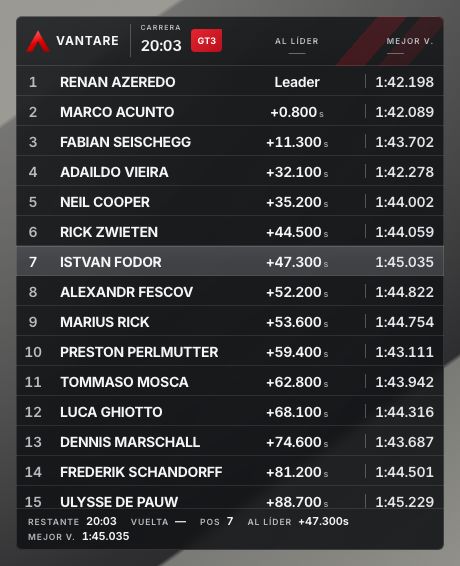
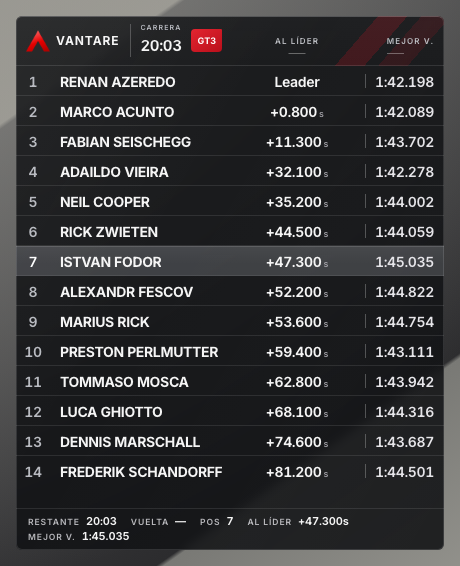
fix(functional): presupuesto de filas — el pie nunca se corta (ISA-1128)
El renderer calcula cuantas filas caben en layout.h tras reservar cabecera,
pie de slots (estimando su anchura real por texto) y bandas auxiliares, y
solo pinta filas completas. Antes la segunda fila del pie desbordaba el
widget y el wrap recortaba la tabla a media fila. Sin layout no se recorta
nada (tests y hosts antiguos igual). Mismo presupuesto en relative.

Generated with [Devin](https://devin.ai)

diff --git a/vantare-v2/frontend/src/overlay/design-systems/vantare-functional/StandingsFunctional.tsx b/vantare-v2/frontend/src/overlay/design-systems/vantare-functional/StandingsFunctional.tsx
@@ -6,7 +6,13 @@ import { functionalLabels } from "./labels";
 import { resolveFunctionalFooterSlots } from "./footer-slots";
 import vantareMark from "../../../assets/orbit/vantare-mark.png";
 
-export function StandingsFunctional({ model, settings }: WidgetRendererProps<StandingsViewModel>) {
+const SLOT_ROW_PX = 14;
+const SLOT_PAD_PX = 15;
+const SLOT_GAP_PX = 14;
+/** Ancho estimado de un hueco: etiqueta en caps fina + valor bold + aire. */
+const slotItemWidth = (label: string, value: string) => label.length * 5.5 + value.length * 7.5 + 12;
+
+export function StandingsFunctional({ model, settings, layout }: WidgetRendererProps<StandingsViewModel>) {
   const { locale } = useI18n();
   const labels = functionalLabels[locale];
   const broadcast = settings.templateId === "broadcast";
@@ -27,6 +33,22 @@ export function StandingsFunctional({ model, settings }: WidgetRendererProps<Sta
   const statusText = model.status !== "ready" ? labels[model.status] : model.rows.length === 0 ? labels.missing : undefined;
   const labelFor = (metric: string) => metric === "gap" && paceSession ? labels.paceGap : labels[metric as keyof typeof labels] ?? metric;
 
+  // Presupuesto de filas: el pie nunca se corta y la tabla cede en filas
+  // completas — una media fila colgando es peor que una fila menos.
+  // Sin layout (tests, hosts antiguos) no se recorta nada.
+  const innerWidth = Math.max(80, (layout?.w ?? 0) - 24);
+  const slotsTotal = slots.reduce((sum, slot) => sum + slotItemWidth(slot.label, slot.value), 0) + Math.max(0, slots.length - 1) * SLOT_GAP_PX;
+  const slotRows = slots.length > 0 ? Math.max(1, Math.ceil(slotsTotal / innerWidth)) : 0;
+  const slotsHeight = slotRows > 0 ? SLOT_PAD_PX + slotRows * SLOT_ROW_PX : 0;
+  const ambientHeight = slots.length === 0 && hasFooter ? 30 : 0;
+  const brandBandHeight = !hasHeader && brandVisible ? 24 : 0;
+  // La cabecera suelta (broadcast / sin bloque de identidad) vive fuera de
+  // la tabla y también resta espacio a las filas.
+  const looseHeaderHeight = (!identitySpan || unavailable || broadcast) && hasHeader ? 49 : 0;
+  const tableSpace = layout?.h === undefined ? Number.POSITIVE_INFINITY : layout.h - looseHeaderHeight - slotsHeight - ambientHeight - brandBandHeight;
+  const rowsFit = Math.max(0, Math.floor((tableSpace - 50) / 30));
+  const visibleRows = Number.isFinite(tableSpace) ? model.rows.slice(0, rowsFit) : model.rows;
+
   const sessionHeader = <div className={`vf-session${brandVisible ? "" : " vf-session--bare"}`} title={`${sessionLabel} · ${labels.remaining}`}>
     {brandVisible ? <span className="vf-brand" aria-label="Vantare"><img src={vantareMark} alt="" />VANTARE</span> : null}
     <span className="vf-session-context"><span className="vf-session-type" role={model.status === "stale" ? "status" : undefined}>{model.status === "stale" ? labels.stale : sessionLabel}</span><span className="vf-clock">{model.remainingText}</span></span>
@@ -39,7 +61,7 @@ export function StandingsFunctional({ model, settings }: WidgetRendererProps<Sta
       {(!identitySpan || unavailable || broadcast) && hasHeader && sessionHeader}
       {statusText && model.status !== "stale" && <p className="vf-status" role="status">{statusText}</p>}
       {model.statusMessage && model.status !== "stale" && <p className="vf-detail">{model.statusMessage}</p>}
-      {!unavailable && model.rows.length > 0 && (
+      {!unavailable && visibleRows.length > 0 && (
         <div className="vf-table-wrap">
         <table className="vf-table" aria-label={`${sessionLabel} · ${model.activeClass}`}>
           <colgroup>{columns.map((column) => <col key={column.id} style={{ width: resolveFunctionalColumnWidth(column, broadcast) }} />)}</colgroup>
@@ -49,7 +71,7 @@ export function StandingsFunctional({ model, settings }: WidgetRendererProps<Sta
             {columns.slice(broadcast ? 0 : identitySpan).map((column) => <th key={column.id} scope="col" data-metric={column.metricId} title={labelFor(column.metricId)}><span className="vf-column-label">{labelFor(column.metricId)}</span></th>)}
             </>}
           </tr></thead>
-          <tbody>{model.rows.map((row) => (
+          <tbody>{visibleRows.map((row) => (
             <tr key={row.id} data-standings-row={row.id} data-player={row.isPlayer || undefined}>
               {columns.map((column) => {
                 const value = column.metricId === "driverName" ? row.configuredDriverName ?? row.driverName : resolveStandingsCellValue(row, column.metricId);

diff --git a/vantare-v2/frontend/src/overlay/design-systems/vantare-functional/RelativeFunctional.tsx b/vantare-v2/frontend/src/overlay/design-systems/vantare-functional/RelativeFunctional.tsx
@@ -11,7 +11,13 @@ import { resolveFunctionalFooterSlots } from "./footer-slots";
 const CENTERED = new Set(["position", "class", "carNumber", "gap"]);
 const LAP_METRICS = new Set(["bestLap", "lastLap"]);
 
-export function RelativeFunctional({ model, settings }: WidgetRendererProps<RelativeViewModel>) {
+const SLOT_ROW_PX = 14;
+const SLOT_PAD_PX = 15;
+const SLOT_GAP_PX = 14;
+const RELATIVE_ROW_PX = 26;
+const slotItemWidth = (label: string, value: string) => label.length * 5.5 + value.length * 7.5 + 12;
+
+export function RelativeFunctional({ model, settings, layout }: WidgetRendererProps<RelativeViewModel>) {
   const { locale } = useI18n();
   const labels = functionalLabels[locale];
   const columns = model.columns;
@@ -26,6 +32,18 @@ export function RelativeFunctional({ model, settings }: WidgetRendererProps<Rela
       : metricId === "carNumber" ? labels.driverNumber
         : labels[metricId as keyof typeof labels] ?? metricId;
 
+  // Mismo presupuesto que standings: el pie nunca se corta y la tabla cede
+  // en filas completas. Sin layout no se recorta nada.
+  const innerWidth = Math.max(80, (layout?.w ?? 0) - 24);
+  const slotsTotal = slots.reduce((sum, slot) => sum + slotItemWidth(slot.label, slot.value), 0) + Math.max(0, slots.length - 1) * SLOT_GAP_PX;
+  const slotRows = slots.length > 0 ? Math.max(1, Math.ceil(slotsTotal / innerWidth)) : 0;
+  const slotsHeight = slotRows > 0 ? SLOT_PAD_PX + slotRows * SLOT_ROW_PX : 0;
+  const tableSpace = layout?.h === undefined
+    ? Number.POSITIVE_INFINITY
+    : layout.h - (hasMeta ? 30 : 0) - slotsHeight - (slots.length === 0 && hasFooter ? 30 : 0);
+  const rowsFit = Math.max(0, Math.floor(tableSpace / RELATIVE_ROW_PX));
+  const visibleRows = Number.isFinite(tableSpace) ? model.rows.slice(0, rowsFit) : model.rows;
+
   return (
     // Estructura de la referencia: barra de meta arriba (pista + posición del
     // jugador), lista de filas, barra inferior (sesión/reloj + ambiente). Cada
@@ -39,11 +57,11 @@ export function RelativeFunctional({ model, settings }: WidgetRendererProps<Rela
       )}
       {statusText && <p className="vf-status" role="status">{statusText}</p>}
       {model.statusMessage && <p className="vf-detail">{model.statusMessage}</p>}
-      {!unavailable && model.rows.length > 0 && (
+      {!unavailable && visibleRows.length > 0 && (
         <div className="vf-table-wrap">
         <table className="vf-table" aria-label={labels.relative}>
           <colgroup>{columns.map((column) => <col key={column.id} style={{ width: resolveColumnWidthPixels(column, RELATIVE_COLUMN_TEMPLATES.find((template) => template.metricId === column.metricId)?.defaultWidth ?? 60) }} />)}</colgroup>
-          <tbody>{model.rows.map((row) => (
+          <tbody>{visibleRows.map((row) => (
             <tr key={row.id} data-relative-row={row.id} data-player={row.isPlayer || undefined} data-side={row.side}>
               {columns.map((column) => {
                 const value = column.metricId === "gap" && row.isPlayer ? "—" : resolveRelativeCellValue(row, column.metricId);
